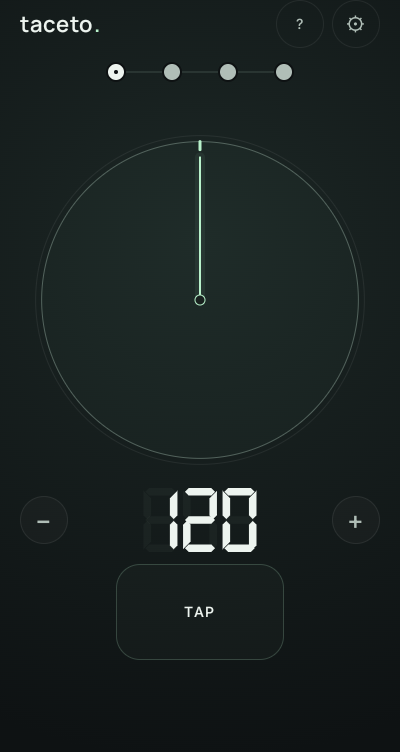
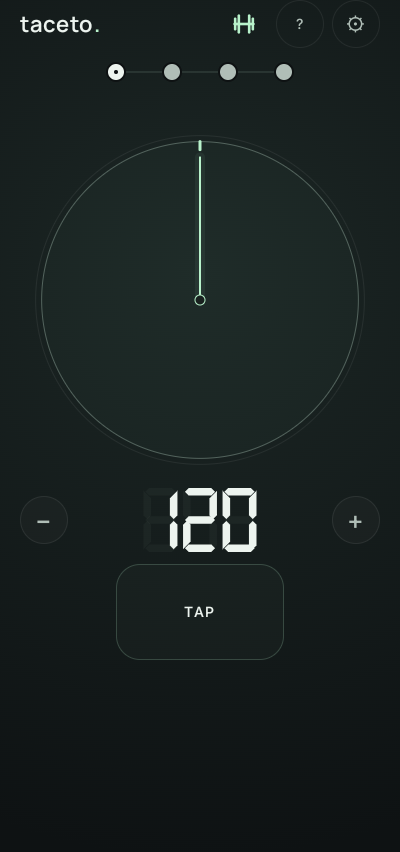
Refresh README screenshots for version 0.2.0

diff --git a/README.md b/README.md
@@ -30,13 +30,16 @@ A dumbbell in the main header indicates enabled training options and opens them.
 
 ## Screenshots
 
-| Circle | Pendulum | Meter & beats |
+| Circle | Pendulum | Bar settings |
 | :---: | :---: | :---: |
-| <img src="docs/screenshots/circle.png" alt="Taceto circular hand view with 120 BPM and tap tempo" width="230"> | <img src="docs/screenshots/pendulum.png" alt="Taceto pendulum view with 120 BPM and tap tempo" width="230"> | <img src="docs/screenshots/meter.png" alt="Time signature dialog with 6/8 selected, BPM reference, subdivision and swing controls" width="230"> |
+| <img src="docs/screenshots/circle.png" alt="Taceto 0.2.0 circle view with training indicator, 120 BPM and tap tempo" width="230"> | <img src="docs/screenshots/pendulum.png" alt="Taceto 0.2.0 pendulum view with training indicator and tap tempo" width="230"> | <img src="docs/screenshots/meter.png" alt="Individual 7/8 bar settings with drawn subdivision and swing notation" width="230"> |
 
-Screenshots show the English interface. German is also included.
-These screenshots illustrate the base metronome; the current editor also includes
-the pattern and training features described above.
+| Patterns | Training |
+| :---: | :---: |
+| <img src="docs/screenshots/patterns.png" alt="Named mixed-meter pattern with wrapped bars, three-state beats and individual rhythm settings" width="300"> | <img src="docs/screenshots/training.png" alt="Training controls with automatic tempo increases and estimated duration to the target tempo" width="300"> |
+
+Screenshots show version 0.2.0 in English, including the current pattern editor,
+bar settings and training controls. German is also included.
 
 ## Build
 
@@ -73,7 +76,7 @@ Build an unsigned APK with `./gradlew :app:assembleRelease`, then sign it:
 python3 tools/release.py sign \
   --keystore "$HOME/.local/share/taceto/signing/taceto-release.p12" \
   --apk app/build/outputs/apk/release/app-release-unsigned.apk \
-  --output app/build/outputs/apk/release/taceto-0.1.1.apk \
+   --output app/build/outputs/apk/release/taceto-0.2.0.apk \
   --apksigner "$ANDROID_HOME/build-tools/34.0.0/apksigner"
 ```
 
